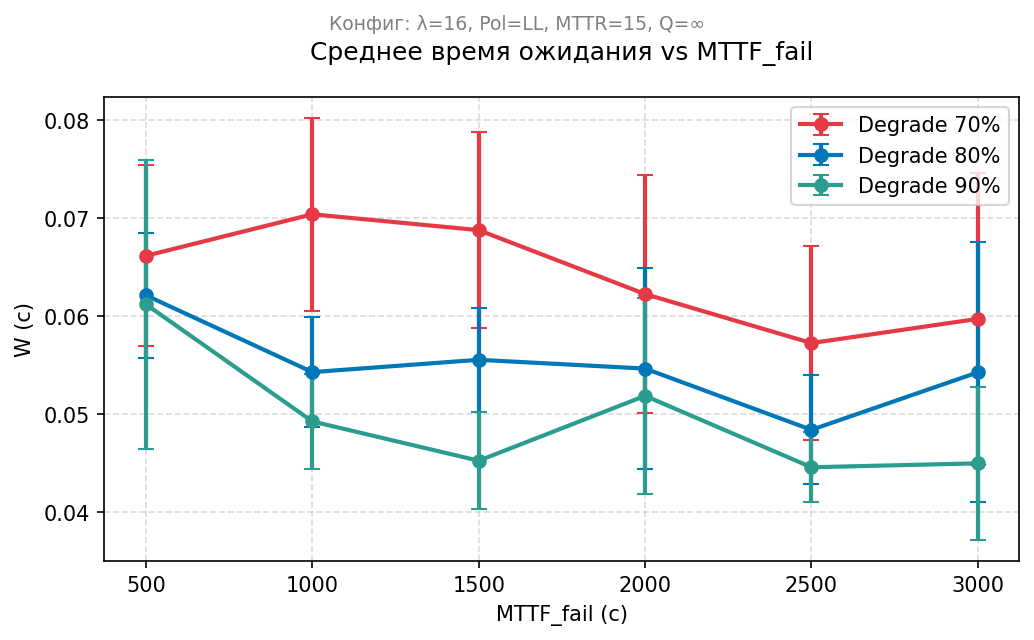
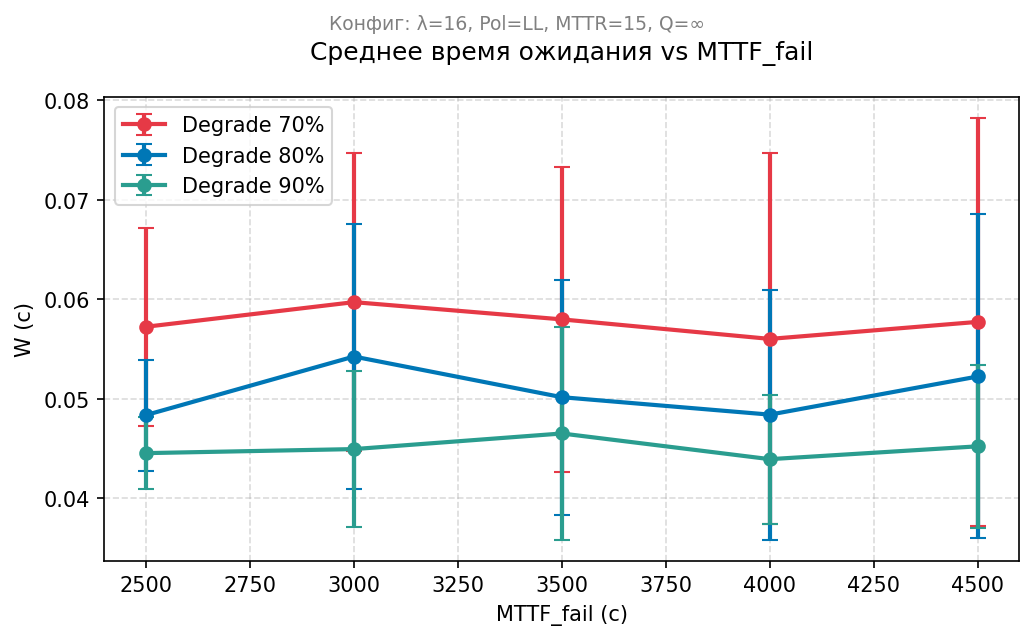
refactor simulator_v3.py

diff --git a/simulator_v3.py b/simulator_v3.py
@@ -93,7 +93,7 @@ class SimConfig:
     balance_policy:      BalancePolicy = "least_loaded"
 
     # Параметры отказов узла (каскад UP→DEGRADE→DOWN)
-    node_mttf_fail:      float = 1000.0   # MTTF аппаратного отказа
+    node_mttf_fail:      float = 3500.0   # MTTF аппаратного отказа
     degrade_percent:     float = 0.8    # MTTF_degrade = mttf_fail * degrade_percent
     node_mttr:           float = 15.0   # среднее время восстановления узла
     node_degrade_factor: float = 2.0    # во сколько раз снижается μ при degrade
@@ -558,7 +558,7 @@ def execute_all_experiments() -> dict:
 
     # --- Серия 1: MTTF_fail ---
     print("[1/4] Влияние MTTF_fail (кривые старения 70% / 80% / 90%)...")
-    for mttf in [500, 1000, 1500, 2000, 2500, 3000]:
+    for mttf in [2500, 3000, 3500, 4000, 4500]:
         for pct in [0.7, 0.8, 0.9]:
             cfg = SimConfig(node_mttf_fail=float(mttf), degrade_percent=pct)
             res = run_replications(cfg)
@@ -571,7 +571,7 @@ def execute_all_experiments() -> dict:
     # --- Серия 2: MTTR ---
     print("[2/4] Влияние MTTR восстановления сервера...")
     for mttr in [5, 10, 15, 20, 25]:
-        cfg = SimConfig(node_mttr=float(mttr), node_mttf_fail=1000.0, degrade_percent=0.8)
+        cfg = SimConfig(node_mttr=float(mttr), node_mttf_fail=3500.0, degrade_percent=0.8)
         res = run_replications(cfg)
         res["mttr"] = mttr
         plot_data["mttr"].append(res)
@@ -581,7 +581,7 @@ def execute_all_experiments() -> dict:
     # --- Серия 3: Политики балансировки ---
     print("[3/4] Сравнение политик балансировки...")
     for pol in ["round_robin", "least_loaded", "random"]:
-        cfg = SimConfig(balance_policy=pol, node_mttf_fail=1000.0,
+        cfg = SimConfig(balance_policy=pol, node_mttf_fail=3500.0,
                         degrade_percent=0.8, node_mttr=15.0)
         res = run_replications(cfg)
         res["policy"] = pol
@@ -592,7 +592,7 @@ def execute_all_experiments() -> dict:
     # --- Серия 4: Интенсивность λ ---
     print("[4/4] Влияние интенсивности λ = [10 .. 30] задач/с...")
     for lam in [10.0, 14.0, 18.0, 22.0, 26.0, 30.0]:
-        cfg = SimConfig(arrival_rate=lam, node_mttf_fail=1000.0,
+        cfg = SimConfig(arrival_rate=lam, node_mttf_fail=3500.0,
                         degrade_percent=0.8, balance_policy="least_loaded")
         res = run_replications(cfg)
         res["lambda"] = lam
@@ -682,9 +682,9 @@ def generate_plots(data: dict):
     print("\nГенерация 24 графиков...")
 
     cfg_fail = "λ=16, Pol=LL, MTTR=15, Q=∞"
-    cfg_mttr = "λ=16, Pol=LL, Fail=1000, Deg=80%, Q=∞"
-    cfg_bal  = "λ=16, Fail=1000, Deg=80%, MTTR=15, Q=∞"
-    cfg_lam  = "Pol=LL, Fail=1000, Deg=80%, MTTR=15, Q=∞"
+    cfg_mttr = "λ=16, Pol=LL, Fail=3500, Deg=80%, Q=∞"
+    cfg_bal  = "λ=16, Fail=3500, Deg=80%, MTTR=15, Q=∞"
+    cfg_lam  = "Pol=LL, Fail=3500, Deg=80%, MTTR=15, Q=∞"
 
     df_f = pd.DataFrame(data["fail"])
     df_m = pd.DataFrame(data["mttr"])
